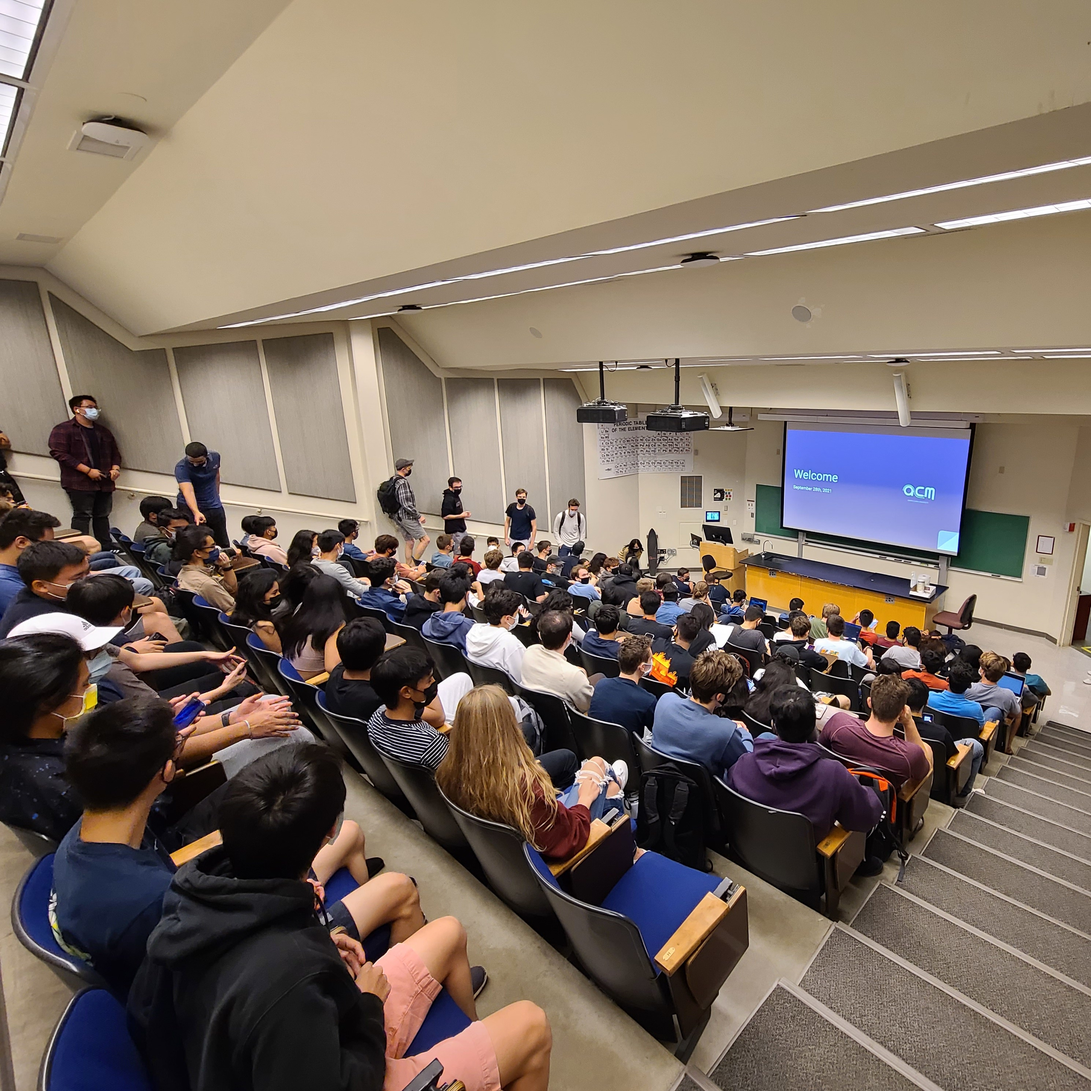
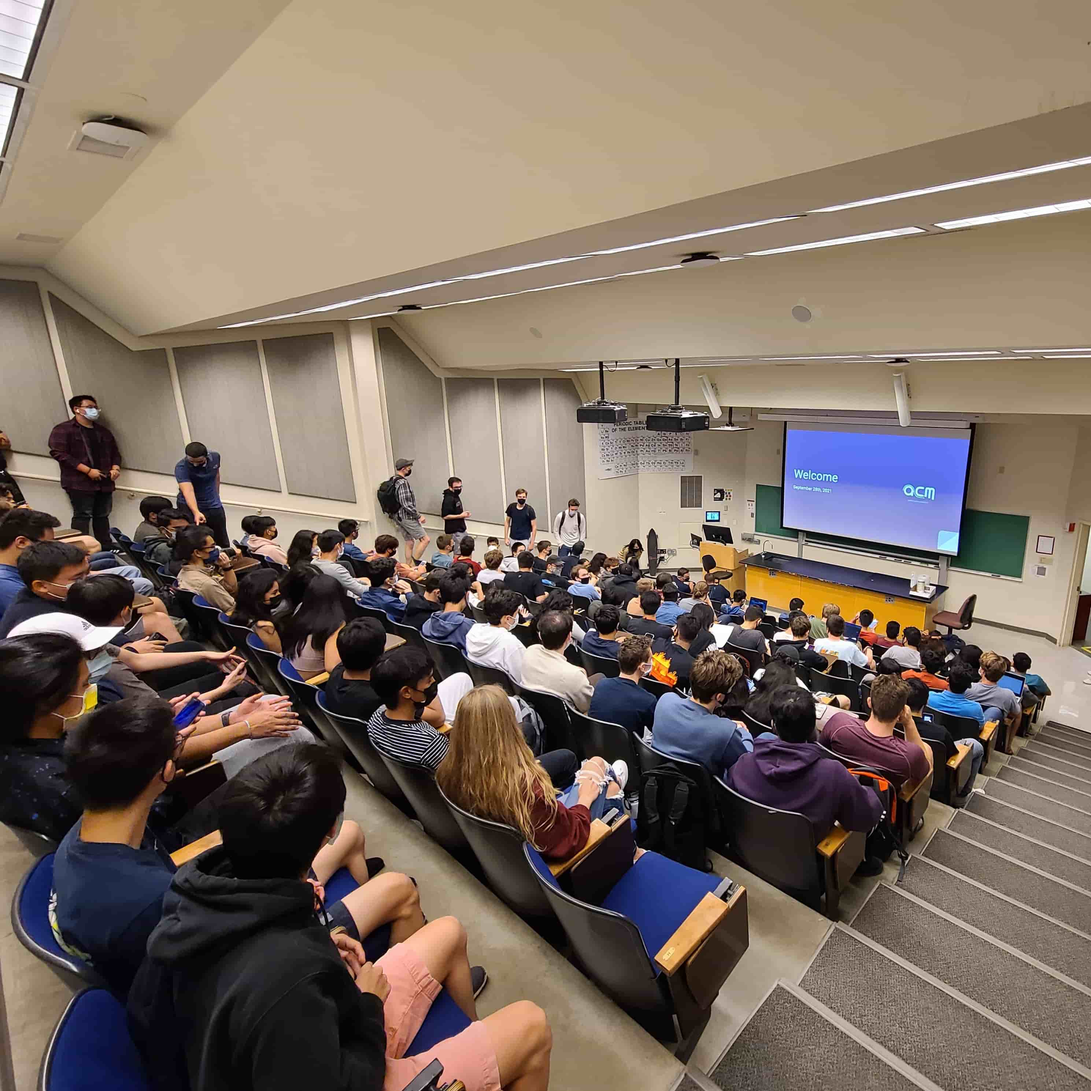
compressed some images

diff --git a/src/pages/Index.vue b/src/pages/Index.vue
@@ -189,7 +189,7 @@ import image3 from "@/assets/images/Veritas.jpg";
 
 import hackathon from "@/assets/images/events/hackathon.jpg";
 import workshop from "@/assets/images/events/workshop.jpg";
-import speaker from "@/assets/images/events/Speaker1.png";
+import speaker from "@/assets/images/events/Speaker1.jpg";
 
 import ACM from "@/assets/images/resources/ACM.svg";
 import TeamTreeHouse from "@/assets/images/resources/teamtreehouse.svg";
